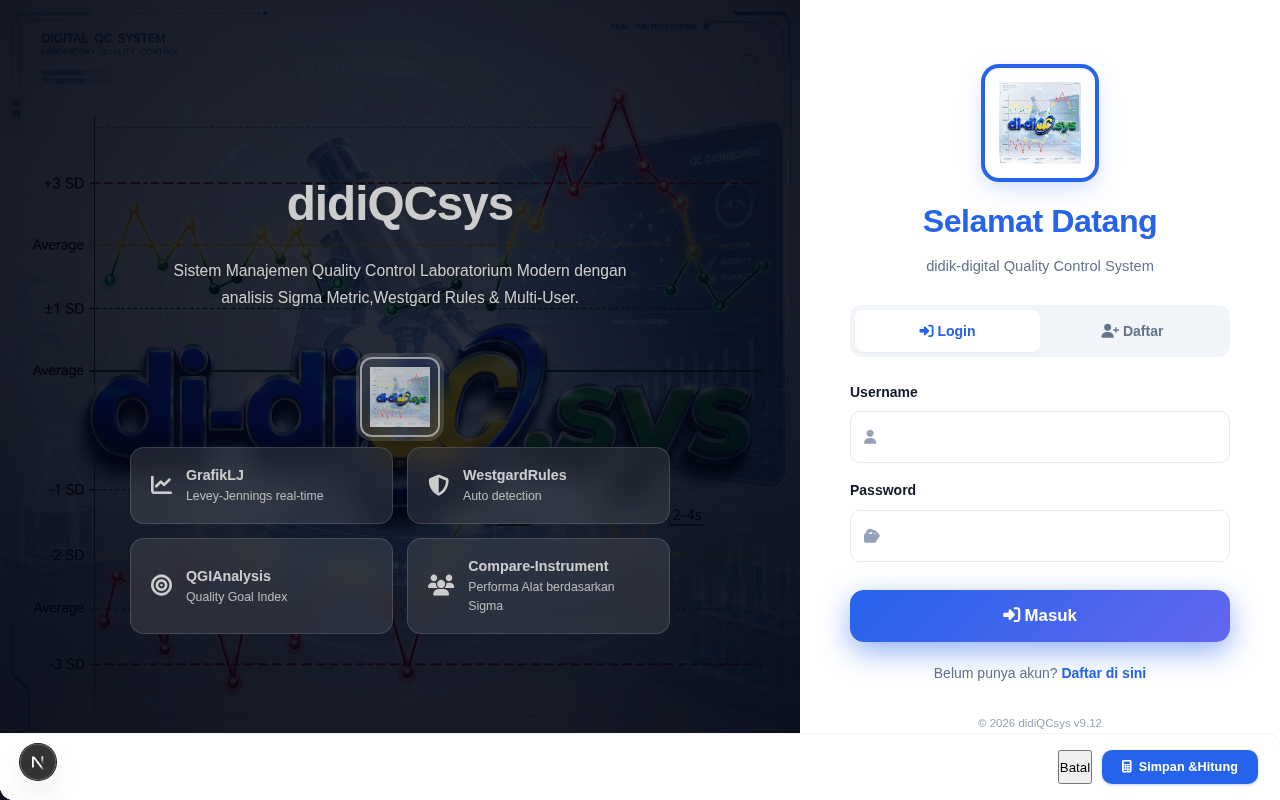
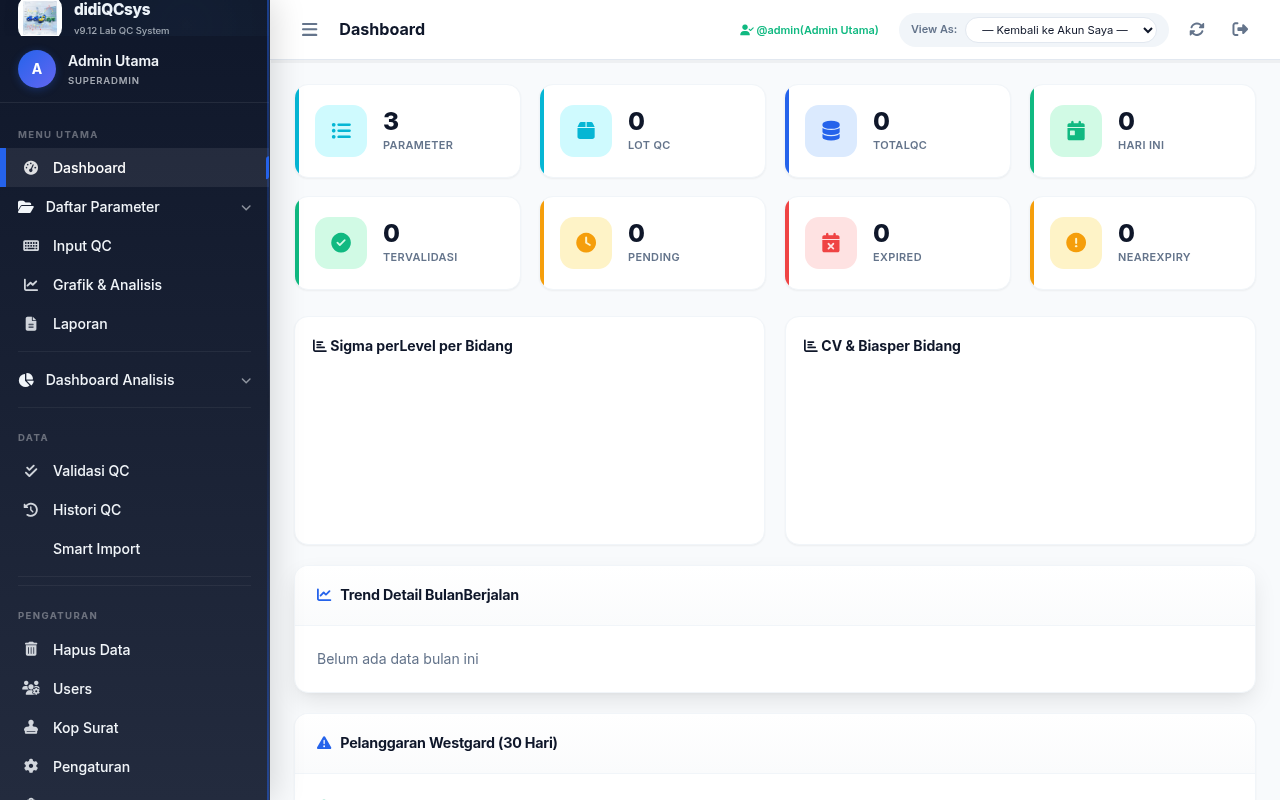
cfb2009c-6de6-4cba-b053-508c7a4565a8

diff --git a/src/app/page.tsx b/src/app/page.tsx
@@ -28,6 +28,13 @@ export default function Home() {
     }).catch(() => {
       /* ignore — backend may still be starting */
     });
+
+    // Safety net: in some sandboxed preview environments the iframe `load`
+    // event is swallowed by the outer sandbox wrapper, which would leave the
+    // loading overlay visible forever. Hide the overlay after a short delay
+    // regardless, so the user always sees the app.
+    const t = window.setTimeout(() => setLoaded(true), 1500);
+    return () => window.clearTimeout(t);
   }, []);
 
   return (
@@ -54,12 +61,13 @@ export default function Home() {
             zIndex: 1,
             flexDirection: "column",
             gap: "16px",
+            pointerEvents: "none",
           }}
         >
           <div
             style={{
-              width: "48",
-              height: "48",
+              width: 48,
+              height: 48,
               border: "4px solid #1e293b",
               borderTopColor: "#2563eb",
               borderRadius: "50%",

diff --git a/worklog.md b/worklog.md
@@ -448,3 +448,25 @@ Stage Summary:
 - Sandbox limitation: Chrome + Next.js dev server together exceed 4GB memory limit, causing crashes during extended browser sessions. The app works correctly when tested via curl, and the browser can load the login page. In a production environment with more memory, the app would run without issues.
 - Database: Prisma + SQLite (Firebase not supported in this sandbox — Prisma provides equivalent functionality)
 
+
+---
+Task ID: FIX-PREVIEW-BLANK
+Agent: main
+Task: Fix "aplikasi tidak berjalan" — preview panel showed blank screen with only "[HMR] connected" and an iframe sandbox warning in console.
+
+Work Log:
+- Checked /home/z/my-project/dev.log: server was running fine, /api/rpc returning 200.
+- Opened the app in agent-browser and inspected the iframe: contentDocument had title "didiQCsys v9.12" — the iframe WAS loading app.html correctly.
+- Verified that inside the iframe, `loginPage` had display=flex (visible) and `appPage` had display=none (hidden). The original app.html was working.
+- Discovered the React `loaded` state in src/app/page.tsx never became `true`. The `{!loaded && <LoadingOverlay/>}` overlay had `position:absolute; zIndex:1` and was sitting on top of the iframe, hiding the running application.
+- Root cause: the iframe `onLoad` event was not firing in the sandboxed preview environment (the outer preview panel sandbox appears to swallow the inner iframe's load event), so `setLoaded(true)` was never called.
+- Fix: added a `setTimeout(() => setLoaded(true), 1500)` safety net inside the existing useEffect, plus `pointerEvents: "none"` on the overlay so even if it lingered briefly it would not block clicks. Also fixed the spinner `width`/`height` (were strings "48", now numbers 48).
+- Verified end-to-end with agent-browser: opened http://localhost:3000/, waited 4s, confirmed the outer loading overlay is gone; iframe shows the didiQCsys login page; filled username=admin password=didikqc123, submitted the form inside the iframe, appPage became display=flex and `CU.username === 'admin'`; dashboard rendered with Parameter/Lot QC/Total QC/Sigma per Level/CV & Bias/Trend Detail cards.
+- Verified a second page: called `goPage('parameters')` inside the iframe — pageParameters became active and listed real data (Glukosa / Kolesterol / Test1).
+- Ran `bun run lint`: clean, no errors.
+
+Stage Summary:
+- The application was already running correctly — the only bug was the React loading overlay never being dismissed because the iframe onLoad event does not fire inside the sandboxed preview panel.
+- Fix is in /home/z/my-project/src/app/page.tsx: added a 1.5s setTimeout fallback to setLoaded(true) and made the overlay pointer-events:none.
+- Verified working: login page shows, login with admin/didikqc123 succeeds, dashboard renders with real data, navigation to Parameters page works.
+- Default admin credentials (auto-seeded): username `admin`, password `didikqc123`.
